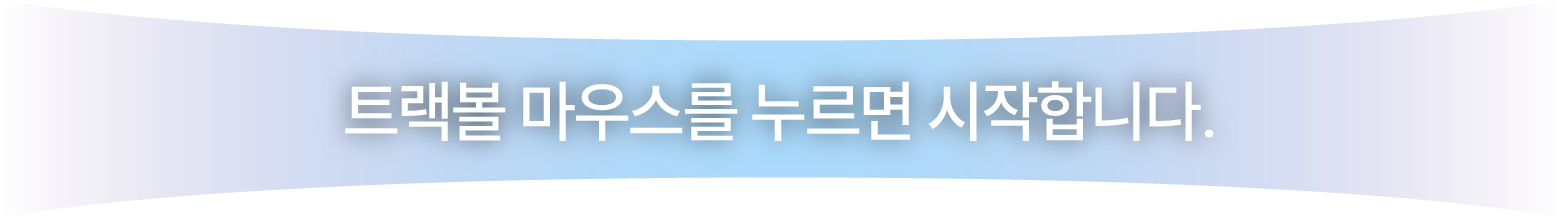
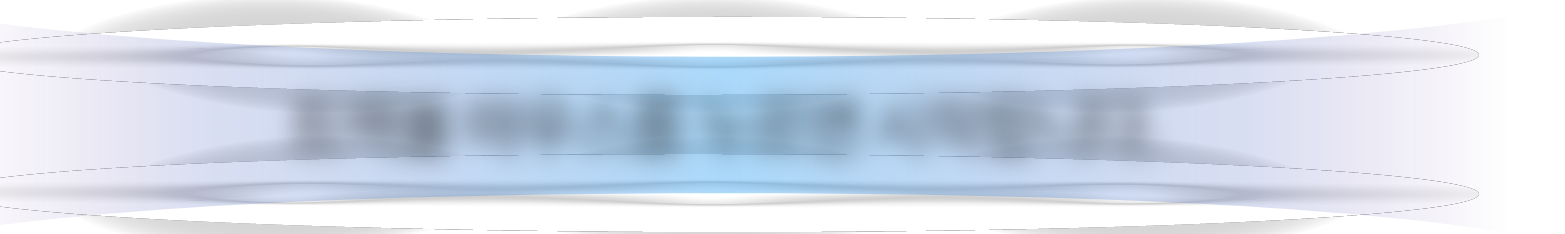
251017 save

diff --git a/Assets/My/Scripts/0_Global/Pages/TitlePage.cs b/Assets/My/Scripts/0_Global/Pages/TitlePage.cs
@@ -7,7 +7,7 @@ using UnityEngine;
 [Serializable]
 public class TitleSetting
 {
-    public VideoSetting mainBackground;
+    public ImageSetting mainBackground;
 
     public ImageSetting titleImage;
     public ImageSetting titleGuideImage;
@@ -23,11 +23,13 @@ public class TitlePage : BasePage<TitleSetting>
 
     private GameObject tutorialPage;
 
+    private GameObject titleBG;
     private GameObject titleImage;
     private GameObject titleGuideImage;
 
     protected override async UniTask BuildContentAsync(CancellationToken token)
-    {
+    {   
+        titleBG = await UICreator.Instance.CreateSingleImageAsync(setting.mainBackground, mainCanvasObj, token);
         titleImage = await UICreator.Instance.CreateSingleImageAsync(setting.titleImage, mainCanvasObj, token);
         titleGuideImage = await UICreator.Instance.CreateSingleImageAsync(setting.titleGuideImage, mainCanvasObj, token);
         titleGuideImage.AddComponent<UIBlink>();

diff --git a/Assets/My/Scripts/0_Global/Pages/BasePage.cs b/Assets/My/Scripts/0_Global/Pages/BasePage.cs
@@ -311,7 +311,7 @@ public abstract class BasePage<T> : MonoBehaviour where T : class
             }
 
             await CreateUI(token);
-            await FadeManager.Instance.FadeInAsync(JsonLoader.Instance.settings.fadeTime);
+            await FadeManager.Instance.FadeInAsync(JsonLoader.Instance.settings.fadeTime, external: token);
         }
         catch (OperationCanceledException)
         {

diff --git a/Assets/My/Scripts/0_Global/UI/UIBlink.cs b/Assets/My/Scripts/0_Global/UI/UIBlink.cs
@@ -58,6 +58,6 @@ public class UIBlink : MonoBehaviour
     private void SetAlpha01(float a01)
     {        
 		Color c = image.color;
-		image.color = new Color(c.a, c.g, c.b, a01);        
+		image.color = new Color(c.r, c.g, c.b, a01);        
     }
 }
